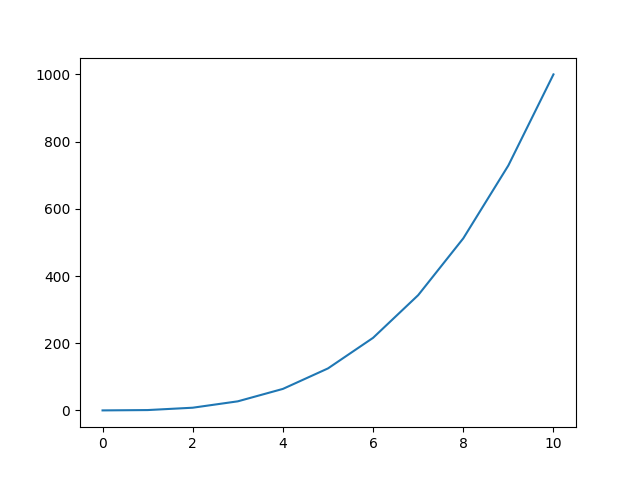
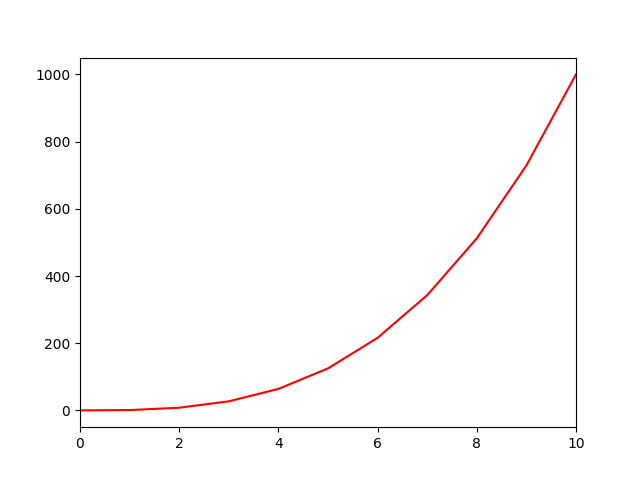
All in one arranged )

diff --git a/math/plotting/5-all_in_one.py b/math/plotting/5-all_in_one.py
@@ -2,6 +2,8 @@
 """Put 5 graphs on one image"""
 import numpy as np
 import matplotlib.pyplot as plt
+import matplotlib.gridspec as gridspec
+
 
 def all_in_one():
     """Fricking Bad Idea"""
@@ -29,8 +31,48 @@ def all_in_one():
     np.random.seed(5)
     student_grades = np.random.normal(68, 15, 50)
 
-    plt.title('All in One')
+    fig = plt.figure()
+    fig.suptitle('All in One')
+    gs = gridspec.GridSpec(3, 2, figure=fig)
 
+    plt.subplot(gs[0, 0])
+    plt.xlim(0, 10)
+    plt.plot(y0, color="red")
+
+    plt.subplot(gs[0, 1])
+    plt.title("Men's Height vs Weight", fontsize="x-small")
+    plt.xlabel("Height (in)", fontsize="x-small")
+    plt.ylabel("Weight (lbs)", fontsize="x-small")
+    plt.scatter(x1, y1, color="magenta")
+
+    plt.subplot(gs[1, 0])
+    plt.title("Exponential Decay of C-14", fontsize="x-small")
+    plt.xlabel("Time (years)", fontsize="x-small")
+    plt.ylabel("Fraction Remaining", fontsize="x-small")
+    plt.yscale("log")
+    plt.xlim(0, 28650)
+    plt.plot(x2, y2)
+
+    plt.subplot(gs[1, 1])
+    plt.title('Exponential Decay of Radioactive Elements', fontsize="x-small")
+    plt.xlabel('Time (years)', fontsize="x-small")
+    plt.ylabel('Fraction Remaining', fontsize="x-small")
+    plt.xlim(0, 20000)
+    plt.ylim(0, 1)
+    plt.plot(x3, y31, color="red", ls="--", label='C-14')
+    plt.plot(x3, y32, color="green", ls="-", label='Ra-226')
+    plt.legend(loc='upper right', fontsize="x-small")
+
+    plt.subplot(gs[2, :])
+    plt.title('Project A', fontsize="x-small")
+    plt.xlabel('Grades', fontsize="x-small")
+    plt.ylabel('Number of Students', fontsize="x-small")
+    plt.xlim(0, 100)
+    plt.ylim(0, 30)
+    plt.hist(student_grades, bins=range(0, 110, 10), edgecolor='black')
+    plt.xticks(range(0, 110, 10))
+
+    plt.subplots_adjust(left=0.15, right=0.93, top=0.93, bottom=0.1, hspace=0.8, wspace=0.5)
     plt.savefig('5-all_in_one')
     plt.show()
 

diff --git a/math/plotting/2-change_scale.py b/math/plotting/2-change_scale.py
@@ -20,6 +20,7 @@ def change_scale():
     plt.xlim(0, 28650)
 
     plt.savefig('2-change_scale')
+    plt.show()
 
 
 if __name__ == '__main__':
